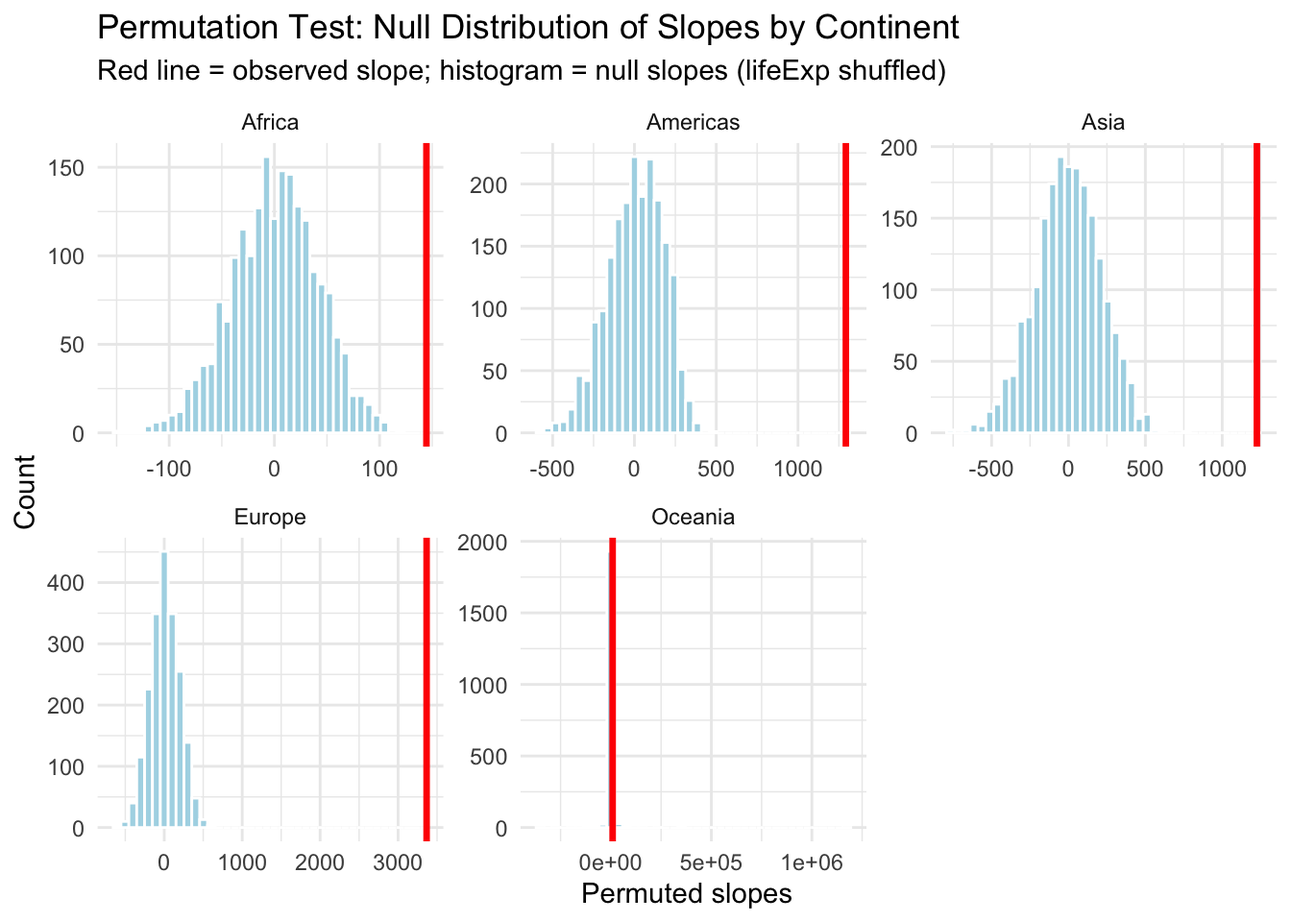
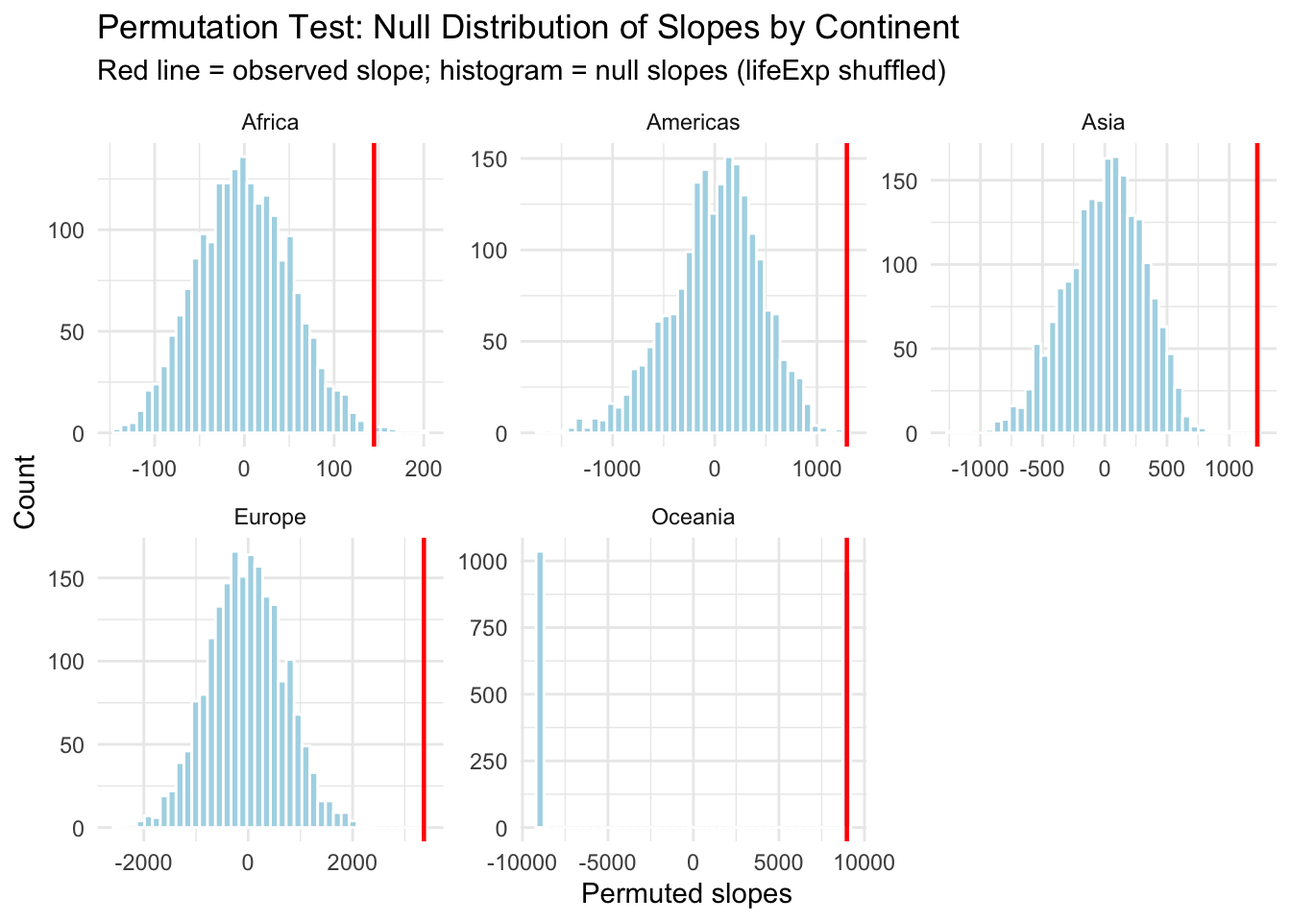
Final Proj 3

diff --git a/docs/simulation.html b/docs/simulation.html
@@ -6,7 +6,7 @@
 
 <meta name="viewport" content="width=device-width, initial-scale=1.0, user-scalable=yes">
 
-<meta name="description" content="This project investigates whether the positive correlation between GDP per capita and life expectancy holds true across different continents. Historically, countries with populations that enjoy higher life expectancy tend to maintain higher GDP per capita. However, this relationship may not be universal. Some nations achieve relatively high life expectancy despite having lower-than-average GDP per capita, while others have comparatively poor life expectancy despite higher average incomes.This project uses data from the Gapminder dataset. I perform a permutation test to evaluate whether the observed correlation between life expectancy and GDP per capita is stronger than what would be expected by chance within each continent.The question I hope to answer is: Does higher life expectancy always imply higher GDP per capita?The Null Hypothesis would be: Any relationship between life expectancy and GDP per capita is due to chance, that is, life expectancy does not predict income. - Knowing a countires life expectancy does not help in the prediction of its GDP per capitaThe Alternative Hypothesis would be: Countries with higher life expectancy tend to have systematically higher (or lower) GDP per capita. In other words, the relationship is real, not random. - Countries with deviations in life expetency, whether possitive or negative tend to have systematically differnt GDP levels. The slope is meaningfully different from zeroThis study will use the slope of this comparison as the test statistic. The slope in this case measures, direction of association. Meaning if the slope is positive that should entail higher life expectancy and higher GDP. The steeper the slope, the stronger the link. Under the null hypothesis, when life expectancy variables are shuffled randomly among countries, the slope should average around zero. If the observed slope is far from this null distribution, the relationship is unlikely due to chance.Refrence: The data used in this analysis comes from the Gapminder Foundation, which is a independent education non-profit that aggreigates large data sets drawing from the UN, World Bank and other large international institutions.Original Author: Rosling, Hans; Rosling, Ola; Rosling Rönnlund, Anna (2005–present) “Gapminder Data”. Stockholm: Gapminder Foundation.">
+<meta name="description" content="This project investigates whether the positive correlation between GDP per capita and life expectancy holds true across different continents. Historically, countries with populations that enjoy higher life expectancy tend to maintain higher GDP per capita. However, this relationship may not be universal. Some nations achieve relatively high life expectancy despite having lower-than-average GDP per capita, while others have comparatively poor life expectancy despite higher average incomes.This project uses data from the Gapminder dataset. I perform a permutation test to evaluate whether the observed correlation between life expectancy and GDP per capita is stronger than what would be expected by chance within each continent.The question I hope to answer is: Does higher life expectancy always imply higher GDP per capita?The Null Hypothesis would be: Any relationship between life expectancy and GDP per capita is due to chance, that is, life expectancy does not predict income. - Knowing a countires life expectancy does not help in the prediction of its GDP per capitaThe Alternative Hypothesis would be: Countries with higher life expectancy tend to have systematically higher (or lower) GDP per capita. In other words, the relationship is real, not random. - Countries with deviations in life expetency, whether possitive or negative tend to have systematically differnt GDP levels. The slope is meaningfully different from zeroThis study will use the slope of this comparison as the test statistic. The slope in this case measures the direction of association, meaning if the slope is positive, that should indicate higher life expectancy and higher GDP. The steeper the slope, the stronger the link. Under the null hypothesis, when life expectancy values are shuffled randomly among countries, the slope should average around zero. If the observed slope is far from this null distribution, the relationship is unlikely due to chance.Refrence: The data used in this analysis comes from the Gapminder Foundation, which is a independent education non-profit that aggreigates large data sets drawing from the UN, World Bank and other large international institutions.Original Author: Rosling, Hans; Rosling, Ola; Rosling Rönnlund, Anna (2005–present) “Gapminder Data”. Stockholm: Gapminder Foundation.">
 
 <title>Understanding the Relationship Between GDP Per-Capita and Life Expectancy – Thomas Price</title>
 <style>
@@ -180,7 +180,7 @@ pre > code.sourceCode > span > a:first-child::before { text-decoration: underlin
     <p>The question I hope to answer is: Does higher life expectancy always imply higher GDP per capita?</p>
     <p>The Null Hypothesis would be: Any relationship between life expectancy and GDP per capita is due to chance, that is, life expectancy does not predict income. - Knowing a countires life expectancy does not help in the prediction of its GDP per capita</p>
     <p>The Alternative Hypothesis would be: Countries with higher life expectancy tend to have systematically higher (or lower) GDP per capita. In other words, the relationship is real, not random. - Countries with deviations in life expetency, whether possitive or negative tend to have systematically differnt GDP levels. The slope is meaningfully different from zero</p>
-    <p>This study will use the slope of this comparison as the test statistic. The slope in this case measures, direction of association. Meaning if the slope is positive that should entail higher life expectancy and higher GDP. The steeper the slope, the stronger the link. Under the null hypothesis, when life expectancy variables are shuffled randomly among countries, the slope should average around zero. If the observed slope is far from this null distribution, the relationship is unlikely due to chance.</p>
+    <p>This study will use the slope of this comparison as the test statistic. The slope in this case measures the direction of association, meaning if the slope is positive, that should indicate higher life expectancy and higher GDP. The steeper the slope, the stronger the link. Under the null hypothesis, when life expectancy values are shuffled randomly among countries, the slope should average around zero. If the observed slope is far from this null distribution, the relationship is unlikely due to chance.</p>
     <p>Refrence: The data used in this analysis comes from the <a href="https://www.gapminder.org/data/">Gapminder Foundation</a>, which is a independent education non-profit that aggreigates large data sets drawing from the UN, World Bank and other large international institutions.</p>
     <p>Original Author: Rosling, Hans; Rosling, Ola; Rosling Rönnlund, Anna (2005–present) “Gapminder Data”. Stockholm: Gapminder Foundation.</p>
   </div>
@@ -235,17 +235,39 @@ pre > code.sourceCode > span > a:first-child::before { text-decoration: underlin
 </figure>
 </div>
 </div>
+<details class="code-fold">
+<summary>Code</summary>
+<div class="sourceCode cell-code" id="cb5"><pre class="sourceCode r code-with-copy"><code class="sourceCode r"><span id="cb5-1"><a href="#cb5-1" aria-hidden="true" tabindex="-1"></a><span class="fu">ggplot</span>(gap2007, <span class="fu">aes</span>(<span class="at">x =</span> lifeExp, <span class="at">y =</span> gdpPercap, <span class="at">color =</span> continent)) <span class="sc">+</span></span>
+<span id="cb5-2"><a href="#cb5-2" aria-hidden="true" tabindex="-1"></a>  <span class="fu">geom_point</span>(<span class="at">size =</span> <span class="dv">2</span>, <span class="at">alpha =</span> <span class="fl">0.8</span>) <span class="sc">+</span></span>
+<span id="cb5-3"><a href="#cb5-3" aria-hidden="true" tabindex="-1"></a>  <span class="fu">geom_smooth</span>(<span class="at">method =</span> <span class="st">"lm"</span>, <span class="at">se =</span> <span class="cn">FALSE</span>) <span class="sc">+</span> </span>
+<span id="cb5-4"><a href="#cb5-4" aria-hidden="true" tabindex="-1"></a>  <span class="fu">labs</span>(</span>
+<span id="cb5-5"><a href="#cb5-5" aria-hidden="true" tabindex="-1"></a>    <span class="at">title =</span> <span class="st">"Life Expectancy vs GDP per Capita (2007)"</span>,</span>
+<span id="cb5-6"><a href="#cb5-6" aria-hidden="true" tabindex="-1"></a>    <span class="at">subtitle =</span> <span class="st">"Each point represents a country"</span>,</span>
+<span id="cb5-7"><a href="#cb5-7" aria-hidden="true" tabindex="-1"></a>    <span class="at">x =</span> <span class="st">"Life Expectancy (years)"</span>,</span>
+<span id="cb5-8"><a href="#cb5-8" aria-hidden="true" tabindex="-1"></a>    <span class="at">y =</span> <span class="st">"GDP per Capita (US dollars)"</span></span>
+<span id="cb5-9"><a href="#cb5-9" aria-hidden="true" tabindex="-1"></a>  ) <span class="sc">+</span></span>
+<span id="cb5-10"><a href="#cb5-10" aria-hidden="true" tabindex="-1"></a>  <span class="fu">facet_wrap</span>(<span class="sc">~</span>continent) <span class="sc">+</span> </span>
+<span id="cb5-11"><a href="#cb5-11" aria-hidden="true" tabindex="-1"></a>  <span class="fu">theme_minimal</span>()</span></code><button title="Copy to Clipboard" class="code-copy-button"><i class="bi"></i></button></pre></div>
+</details>
+<div class="cell-output-display">
+<div>
+<figure class="figure">
+<p><img src="simulation_files/figure-html/unnamed-chunk-2-2.png" class="img-fluid figure-img" width="672"></p>
+</figure>
+</div>
+</div>
 </div>
 <p>The scatter plot shows the observed relationship between life expectancy and GDP per capita across countries in 2007. Their is a general upward trend where countries with longer life expectancy tend to have higher incomes. Additionally, their is noticeable variation within continents. Some countries achieve high life expectancy despite modest GDP per capita, and others show the opposite.This graph warrants testing whether the relationship is strong enough to be considered statistically meaningful.</p>
+<p>This faceted graph shows the relationship between life expectancy and GDP per capita in 2007, separated by continent. Each point represents a country, and the line within each panel indicates the general direction of the relationship. Overall, continents like Europe and Asia show a strong positive correlation, while Africa and Oceania display weaker associations between life expectancy and GDP per capita.</p>
 <div class="cell">
 <details class="code-fold">
 <summary>Code</summary>
-<div class="sourceCode cell-code" id="cb5"><pre class="sourceCode r code-with-copy"><code class="sourceCode r"><span id="cb5-1"><a href="#cb5-1" aria-hidden="true" tabindex="-1"></a><span class="co">#Identifying the LifeExp slope with a linear model</span></span>
-<span id="cb5-2"><a href="#cb5-2" aria-hidden="true" tabindex="-1"></a></span>
-<span id="cb5-3"><a href="#cb5-3" aria-hidden="true" tabindex="-1"></a>get_slope <span class="ot">&lt;-</span> <span class="cf">function</span>(df) {</span>
-<span id="cb5-4"><a href="#cb5-4" aria-hidden="true" tabindex="-1"></a>  fit <span class="ot">&lt;-</span> <span class="fu">lm</span>(gdpPercap <span class="sc">~</span> lifeExp, <span class="at">data =</span> df)</span>
-<span id="cb5-5"><a href="#cb5-5" aria-hidden="true" tabindex="-1"></a>  <span class="fu">coef</span>(fit)[[<span class="st">"lifeExp"</span>]]  </span>
-<span id="cb5-6"><a href="#cb5-6" aria-hidden="true" tabindex="-1"></a>}</span></code><button title="Copy to Clipboard" class="code-copy-button"><i class="bi"></i></button></pre></div>
+<div class="sourceCode cell-code" id="cb6"><pre class="sourceCode r code-with-copy"><code class="sourceCode r"><span id="cb6-1"><a href="#cb6-1" aria-hidden="true" tabindex="-1"></a><span class="co">#Identifying the LifeExp slope with a linear model</span></span>
+<span id="cb6-2"><a href="#cb6-2" aria-hidden="true" tabindex="-1"></a></span>
+<span id="cb6-3"><a href="#cb6-3" aria-hidden="true" tabindex="-1"></a>get_slope <span class="ot">&lt;-</span> <span class="cf">function</span>(df) {</span>
+<span id="cb6-4"><a href="#cb6-4" aria-hidden="true" tabindex="-1"></a>  fit <span class="ot">&lt;-</span> <span class="fu">lm</span>(gdpPercap <span class="sc">~</span> lifeExp, <span class="at">data =</span> df)</span>
+<span id="cb6-5"><a href="#cb6-5" aria-hidden="true" tabindex="-1"></a>  <span class="fu">coef</span>(fit)[[<span class="st">"lifeExp"</span>]]  </span>
+<span id="cb6-6"><a href="#cb6-6" aria-hidden="true" tabindex="-1"></a>}</span></code><button title="Copy to Clipboard" class="code-copy-button"><i class="bi"></i></button></pre></div>
 </details>
 </div>
 <p>The code above tests the slope of the simple regression. gdpPercap ~ lifeExp</p>
@@ -253,13 +275,13 @@ pre > code.sourceCode > span > a:first-child::before { text-decoration: underlin
 <div class="cell">
 <details class="code-fold">
 <summary>Code</summary>
-<div class="sourceCode cell-code" id="cb6"><pre class="sourceCode r code-with-copy"><code class="sourceCode r"><span id="cb6-1"><a href="#cb6-1" aria-hidden="true" tabindex="-1"></a>obs_slopes <span class="ot">&lt;-</span> gap2007 <span class="sc">|&gt;</span></span>
-<span id="cb6-2"><a href="#cb6-2" aria-hidden="true" tabindex="-1"></a>  <span class="fu">group_by</span>(continent) <span class="sc">|&gt;</span></span>
-<span id="cb6-3"><a href="#cb6-3" aria-hidden="true" tabindex="-1"></a>  <span class="fu">summarize</span>(</span>
-<span id="cb6-4"><a href="#cb6-4" aria-hidden="true" tabindex="-1"></a>    <span class="at">obs_slope =</span> <span class="fu">coef</span>(<span class="fu">lm</span>(gdpPercap <span class="sc">~</span> lifeExp))[<span class="dv">2</span>]</span>
-<span id="cb6-5"><a href="#cb6-5" aria-hidden="true" tabindex="-1"></a>  )</span>
-<span id="cb6-6"><a href="#cb6-6" aria-hidden="true" tabindex="-1"></a></span>
-<span id="cb6-7"><a href="#cb6-7" aria-hidden="true" tabindex="-1"></a>obs_slopes</span></code><button title="Copy to Clipboard" class="code-copy-button"><i class="bi"></i></button></pre></div>
+<div class="sourceCode cell-code" id="cb7"><pre class="sourceCode r code-with-copy"><code class="sourceCode r"><span id="cb7-1"><a href="#cb7-1" aria-hidden="true" tabindex="-1"></a>obs_slopes <span class="ot">&lt;-</span> gap2007 <span class="sc">|&gt;</span></span>
+<span id="cb7-2"><a href="#cb7-2" aria-hidden="true" tabindex="-1"></a>  <span class="fu">group_by</span>(continent) <span class="sc">|&gt;</span></span>
+<span id="cb7-3"><a href="#cb7-3" aria-hidden="true" tabindex="-1"></a>  <span class="fu">summarize</span>(</span>
+<span id="cb7-4"><a href="#cb7-4" aria-hidden="true" tabindex="-1"></a>    <span class="at">obs_slope =</span> <span class="fu">coef</span>(<span class="fu">lm</span>(gdpPercap <span class="sc">~</span> lifeExp))[<span class="dv">2</span>]</span>
+<span id="cb7-5"><a href="#cb7-5" aria-hidden="true" tabindex="-1"></a>  )</span>
+<span id="cb7-6"><a href="#cb7-6" aria-hidden="true" tabindex="-1"></a></span>
+<span id="cb7-7"><a href="#cb7-7" aria-hidden="true" tabindex="-1"></a>obs_slopes</span></code><button title="Copy to Clipboard" class="code-copy-button"><i class="bi"></i></button></pre></div>
 </details>
 <div class="cell-output cell-output-stdout">
 <pre><code># A tibble: 5 × 2
@@ -273,27 +295,27 @@ pre > code.sourceCode > span > a:first-child::before { text-decoration: underlin
 </div>
 <details class="code-fold">
 <summary>Code</summary>
-<div class="sourceCode cell-code" id="cb8"><pre class="sourceCode r code-with-copy"><code class="sourceCode r"><span id="cb8-1"><a href="#cb8-1" aria-hidden="true" tabindex="-1"></a>continents <span class="ot">&lt;-</span> <span class="fu">unique</span>(gap2007<span class="sc">$</span>continent)</span>
-<span id="cb8-2"><a href="#cb8-2" aria-hidden="true" tabindex="-1"></a></span>
-<span id="cb8-3"><a href="#cb8-3" aria-hidden="true" tabindex="-1"></a>obs_slopes_continent <span class="ot">&lt;-</span> <span class="fu">numeric</span>(<span class="fu">length</span>(continents))</span>
-<span id="cb8-4"><a href="#cb8-4" aria-hidden="true" tabindex="-1"></a></span>
-<span id="cb8-5"><a href="#cb8-5" aria-hidden="true" tabindex="-1"></a><span class="cf">for</span> (i <span class="cf">in</span> <span class="dv">1</span><span class="sc">:</span><span class="fu">length</span>(continents)) {</span>
-<span id="cb8-6"><a href="#cb8-6" aria-hidden="true" tabindex="-1"></a>  df_cont <span class="ot">&lt;-</span> <span class="fu">subset</span>(gap2007, continent <span class="sc">==</span> continents[i])</span>
-<span id="cb8-7"><a href="#cb8-7" aria-hidden="true" tabindex="-1"></a>  </span>
-<span id="cb8-8"><a href="#cb8-8" aria-hidden="true" tabindex="-1"></a>  obs_slopes_continent[i] <span class="ot">&lt;-</span> <span class="fu">get_slope</span>(df_cont)</span>
-<span id="cb8-9"><a href="#cb8-9" aria-hidden="true" tabindex="-1"></a>}</span>
-<span id="cb8-10"><a href="#cb8-10" aria-hidden="true" tabindex="-1"></a></span>
-<span id="cb8-11"><a href="#cb8-11" aria-hidden="true" tabindex="-1"></a><span class="fu">names</span>(obs_slopes_continent) <span class="ot">&lt;-</span> continents</span>
-<span id="cb8-12"><a href="#cb8-12" aria-hidden="true" tabindex="-1"></a></span>
-<span id="cb8-13"><a href="#cb8-13" aria-hidden="true" tabindex="-1"></a>obs_slope_overall <span class="ot">&lt;-</span> <span class="fu">get_slope</span>(gap2007)</span>
-<span id="cb8-14"><a href="#cb8-14" aria-hidden="true" tabindex="-1"></a>obs_slope_overall</span></code><button title="Copy to Clipboard" class="code-copy-button"><i class="bi"></i></button></pre></div>
+<div class="sourceCode cell-code" id="cb9"><pre class="sourceCode r code-with-copy"><code class="sourceCode r"><span id="cb9-1"><a href="#cb9-1" aria-hidden="true" tabindex="-1"></a>continents <span class="ot">&lt;-</span> <span class="fu">unique</span>(gap2007<span class="sc">$</span>continent)</span>
+<span id="cb9-2"><a href="#cb9-2" aria-hidden="true" tabindex="-1"></a></span>
+<span id="cb9-3"><a href="#cb9-3" aria-hidden="true" tabindex="-1"></a>obs_slopes_continent <span class="ot">&lt;-</span> <span class="fu">numeric</span>(<span class="fu">length</span>(continents))</span>
+<span id="cb9-4"><a href="#cb9-4" aria-hidden="true" tabindex="-1"></a></span>
+<span id="cb9-5"><a href="#cb9-5" aria-hidden="true" tabindex="-1"></a><span class="cf">for</span> (i <span class="cf">in</span> <span class="dv">1</span><span class="sc">:</span><span class="fu">length</span>(continents)) {</span>
+<span id="cb9-6"><a href="#cb9-6" aria-hidden="true" tabindex="-1"></a>  df_cont <span class="ot">&lt;-</span> <span class="fu">subset</span>(gap2007, continent <span class="sc">==</span> continents[i])</span>
+<span id="cb9-7"><a href="#cb9-7" aria-hidden="true" tabindex="-1"></a>  </span>
+<span id="cb9-8"><a href="#cb9-8" aria-hidden="true" tabindex="-1"></a>  obs_slopes_continent[i] <span class="ot">&lt;-</span> <span class="fu">get_slope</span>(df_cont)</span>
+<span id="cb9-9"><a href="#cb9-9" aria-hidden="true" tabindex="-1"></a>}</span>
+<span id="cb9-10"><a href="#cb9-10" aria-hidden="true" tabindex="-1"></a></span>
+<span id="cb9-11"><a href="#cb9-11" aria-hidden="true" tabindex="-1"></a><span class="fu">names</span>(obs_slopes_continent) <span class="ot">&lt;-</span> continents</span>
+<span id="cb9-12"><a href="#cb9-12" aria-hidden="true" tabindex="-1"></a></span>
+<span id="cb9-13"><a href="#cb9-13" aria-hidden="true" tabindex="-1"></a>obs_slope_overall <span class="ot">&lt;-</span> <span class="fu">get_slope</span>(gap2007)</span>
+<span id="cb9-14"><a href="#cb9-14" aria-hidden="true" tabindex="-1"></a>obs_slope_overall</span></code><button title="Copy to Clipboard" class="code-copy-button"><i class="bi"></i></button></pre></div>
 </details>
 <div class="cell-output cell-output-stdout">
 <pre><code>[1] 722.8975</code></pre>
 </div>
 <details class="code-fold">
 <summary>Code</summary>
-<div class="sourceCode cell-code" id="cb10"><pre class="sourceCode r code-with-copy"><code class="sourceCode r"><span id="cb10-1"><a href="#cb10-1" aria-hidden="true" tabindex="-1"></a>obs_slopes_continent</span></code><button title="Copy to Clipboard" class="code-copy-button"><i class="bi"></i></button></pre></div>
+<div class="sourceCode cell-code" id="cb11"><pre class="sourceCode r code-with-copy"><code class="sourceCode r"><span id="cb11-1"><a href="#cb11-1" aria-hidden="true" tabindex="-1"></a>obs_slopes_continent</span></code><button title="Copy to Clipboard" class="code-copy-button"><i class="bi"></i></button></pre></div>
 </details>
 <div class="cell-output cell-output-stdout">
 <pre><code>     Asia    Europe    Africa  Americas   Oceania 
@@ -305,95 +327,96 @@ pre > code.sourceCode > span > a:first-child::before { text-decoration: underlin
 <div class="cell">
 <details class="code-fold">
 <summary>Code</summary>
-<div class="sourceCode cell-code" id="cb12"><pre class="sourceCode r code-with-copy"><code class="sourceCode r"><span id="cb12-1"><a href="#cb12-1" aria-hidden="true" tabindex="-1"></a><span class="co"># Permutation Test : Null Distribution</span></span>
-<span id="cb12-2"><a href="#cb12-2" aria-hidden="true" tabindex="-1"></a>perm_null <span class="ot">&lt;-</span> <span class="cf">function</span>(rep, data){</span>
-<span id="cb12-3"><a href="#cb12-3" aria-hidden="true" tabindex="-1"></a>  data <span class="sc">|&gt;</span></span>
-<span id="cb12-4"><a href="#cb12-4" aria-hidden="true" tabindex="-1"></a>    <span class="fu">select</span>(continent, lifeExp, gdpPercap) <span class="sc">|&gt;</span></span>
-<span id="cb12-5"><a href="#cb12-5" aria-hidden="true" tabindex="-1"></a>    <span class="fu">mutate</span>(<span class="at">lifeExp_perm =</span> <span class="fu">sample</span>(lifeExp, <span class="at">replace =</span> <span class="cn">FALSE</span>)) <span class="sc">|&gt;</span></span>
-<span id="cb12-6"><a href="#cb12-6" aria-hidden="true" tabindex="-1"></a>    <span class="fu">group_by</span>(continent) <span class="sc">|&gt;</span></span>
-<span id="cb12-7"><a href="#cb12-7" aria-hidden="true" tabindex="-1"></a>    <span class="fu">summarize</span>(</span>
-<span id="cb12-8"><a href="#cb12-8" aria-hidden="true" tabindex="-1"></a>      <span class="at">obs_slope  =</span> <span class="fu">coef</span>(<span class="fu">lm</span>(gdpPercap <span class="sc">~</span> lifeExp      ))[<span class="dv">2</span>],</span>
-<span id="cb12-9"><a href="#cb12-9" aria-hidden="true" tabindex="-1"></a>      <span class="at">perm_slope =</span> <span class="fu">coef</span>(<span class="fu">lm</span>(gdpPercap <span class="sc">~</span> lifeExp_perm ))[<span class="dv">2</span>],</span>
-<span id="cb12-10"><a href="#cb12-10" aria-hidden="true" tabindex="-1"></a>      <span class="at">.groups =</span> <span class="st">"drop"</span></span>
-<span id="cb12-11"><a href="#cb12-11" aria-hidden="true" tabindex="-1"></a>    ) <span class="sc">|&gt;</span></span>
-<span id="cb12-12"><a href="#cb12-12" aria-hidden="true" tabindex="-1"></a>    <span class="fu">mutate</span>(<span class="at">rep =</span> rep)</span>
-<span id="cb12-13"><a href="#cb12-13" aria-hidden="true" tabindex="-1"></a>}</span>
-<span id="cb12-14"><a href="#cb12-14" aria-hidden="true" tabindex="-1"></a></span>
-<span id="cb12-15"><a href="#cb12-15" aria-hidden="true" tabindex="-1"></a><span class="fu">set.seed</span>(<span class="dv">2025</span>)</span>
-<span id="cb12-16"><a href="#cb12-16" aria-hidden="true" tabindex="-1"></a>B <span class="ot">&lt;-</span> <span class="dv">2000</span></span>
-<span id="cb12-17"><a href="#cb12-17" aria-hidden="true" tabindex="-1"></a></span>
-<span id="cb12-18"><a href="#cb12-18" aria-hidden="true" tabindex="-1"></a></span>
-<span id="cb12-19"><a href="#cb12-19" aria-hidden="true" tabindex="-1"></a>null_by_cont_tbl <span class="ot">&lt;-</span> <span class="fu">map</span>(<span class="dv">1</span><span class="sc">:</span>B, perm_null, <span class="at">data =</span> gap2007) <span class="sc">|&gt;</span></span>
-<span id="cb12-20"><a href="#cb12-20" aria-hidden="true" tabindex="-1"></a>  <span class="fu">list_rbind</span>()</span>
-<span id="cb12-21"><a href="#cb12-21" aria-hidden="true" tabindex="-1"></a></span>
-<span id="cb12-22"><a href="#cb12-22" aria-hidden="true" tabindex="-1"></a><span class="fu">head</span>(null_by_cont_tbl)</span></code><button title="Copy to Clipboard" class="code-copy-button"><i class="bi"></i></button></pre></div>
+<div class="sourceCode cell-code" id="cb13"><pre class="sourceCode r code-with-copy"><code class="sourceCode r"><span id="cb13-1"><a href="#cb13-1" aria-hidden="true" tabindex="-1"></a><span class="co"># Permutation Test : Null Distribution</span></span>
+<span id="cb13-2"><a href="#cb13-2" aria-hidden="true" tabindex="-1"></a>perm_null <span class="ot">&lt;-</span> <span class="cf">function</span>(rep, data){</span>
+<span id="cb13-3"><a href="#cb13-3" aria-hidden="true" tabindex="-1"></a>  data <span class="sc">|&gt;</span></span>
+<span id="cb13-4"><a href="#cb13-4" aria-hidden="true" tabindex="-1"></a>    <span class="fu">group_by</span>(continent) <span class="sc">|&gt;</span></span>
+<span id="cb13-5"><a href="#cb13-5" aria-hidden="true" tabindex="-1"></a>    <span class="fu">select</span>(continent, lifeExp, gdpPercap) <span class="sc">|&gt;</span></span>
+<span id="cb13-6"><a href="#cb13-6" aria-hidden="true" tabindex="-1"></a>    <span class="fu">mutate</span>(<span class="at">lifeExp_perm =</span> <span class="fu">sample</span>(lifeExp, <span class="at">replace =</span> <span class="cn">FALSE</span>)) <span class="sc">|&gt;</span></span>
+<span id="cb13-7"><a href="#cb13-7" aria-hidden="true" tabindex="-1"></a>    <span class="fu">summarize</span>(</span>
+<span id="cb13-8"><a href="#cb13-8" aria-hidden="true" tabindex="-1"></a>      <span class="at">obs_slope  =</span> <span class="fu">coef</span>(<span class="fu">lm</span>(gdpPercap <span class="sc">~</span> lifeExp      ))[<span class="dv">2</span>],</span>
+<span id="cb13-9"><a href="#cb13-9" aria-hidden="true" tabindex="-1"></a>      <span class="at">perm_slope =</span> <span class="fu">coef</span>(<span class="fu">lm</span>(gdpPercap <span class="sc">~</span> lifeExp_perm ))[<span class="dv">2</span>],</span>
+<span id="cb13-10"><a href="#cb13-10" aria-hidden="true" tabindex="-1"></a>      <span class="at">.groups =</span> <span class="st">"drop"</span></span>
+<span id="cb13-11"><a href="#cb13-11" aria-hidden="true" tabindex="-1"></a>    ) <span class="sc">|&gt;</span></span>
+<span id="cb13-12"><a href="#cb13-12" aria-hidden="true" tabindex="-1"></a>    <span class="fu">mutate</span>(<span class="at">rep =</span> rep)</span>
+<span id="cb13-13"><a href="#cb13-13" aria-hidden="true" tabindex="-1"></a>}</span>
+<span id="cb13-14"><a href="#cb13-14" aria-hidden="true" tabindex="-1"></a></span>
+<span id="cb13-15"><a href="#cb13-15" aria-hidden="true" tabindex="-1"></a><span class="fu">set.seed</span>(<span class="dv">2025</span>)</span>
+<span id="cb13-16"><a href="#cb13-16" aria-hidden="true" tabindex="-1"></a>B <span class="ot">&lt;-</span> <span class="dv">2000</span></span>
+<span id="cb13-17"><a href="#cb13-17" aria-hidden="true" tabindex="-1"></a></span>
+<span id="cb13-18"><a href="#cb13-18" aria-hidden="true" tabindex="-1"></a></span>
+<span id="cb13-19"><a href="#cb13-19" aria-hidden="true" tabindex="-1"></a>null_by_cont_tbl <span class="ot">&lt;-</span> <span class="fu">map</span>(<span class="dv">1</span><span class="sc">:</span>B, perm_null, <span class="at">data =</span> gap2007) <span class="sc">|&gt;</span></span>
+<span id="cb13-20"><a href="#cb13-20" aria-hidden="true" tabindex="-1"></a>  <span class="fu">list_rbind</span>()</span>
+<span id="cb13-21"><a href="#cb13-21" aria-hidden="true" tabindex="-1"></a></span>
+<span id="cb13-22"><a href="#cb13-22" aria-hidden="true" tabindex="-1"></a><span class="fu">head</span>(null_by_cont_tbl)</span></code><button title="Copy to Clipboard" class="code-copy-button"><i class="bi"></i></button></pre></div>
 </details>
 <div class="cell-output cell-output-stdout">
 <pre><code># A tibble: 6 × 4
   continent obs_slope perm_slope   rep
   &lt;fct&gt;         &lt;dbl&gt;      &lt;dbl&gt; &lt;int&gt;
-1 Africa         145.      11.0      1
-2 Americas      1293.     257.       1
-3 Asia          1225.    -137.       1
-4 Europe        3366.     250.       1
-5 Oceania       8972.   -1476.       1
-6 Africa         145.       2.88     2</code></pre>
+1 Africa         145.      -18.0     1
+2 Americas      1293.     -205.      1
+3 Asia          1225.     -155.      1
+4 Europe        3366.     -514.      1
+5 Oceania       8972.    -8972.      1
+6 Africa         145.       22.6     2</code></pre>
 </div>
 </div>
 <p>To simulate the null hypothesis that life expectancy and GDP per capita are unrelated, I created a permutation function. The function (perm_null) randomly shuffles life expectancy values within the dataset. For each randomization, a linear model is fit for each continent and the new slope is recorded. Repeating this 2,000 times using the map() function creates a null distribution of slopes that would occur purely by chance.</p>
 <div class="cell">
 <details class="code-fold">
 <summary>Code</summary>
-<div class="sourceCode cell-code" id="cb14"><pre class="sourceCode r code-with-copy"><code class="sourceCode r"><span id="cb14-1"><a href="#cb14-1" aria-hidden="true" tabindex="-1"></a><span class="co">#Calculating P-Values per continent </span></span>
-<span id="cb14-2"><a href="#cb14-2" aria-hidden="true" tabindex="-1"></a></span>
-<span id="cb14-3"><a href="#cb14-3" aria-hidden="true" tabindex="-1"></a>pvals_tbl <span class="ot">&lt;-</span> null_by_cont_tbl <span class="sc">|&gt;</span></span>
-<span id="cb14-4"><a href="#cb14-4" aria-hidden="true" tabindex="-1"></a>  <span class="fu">group_by</span>(continent) <span class="sc">|&gt;</span></span>
-<span id="cb14-5"><a href="#cb14-5" aria-hidden="true" tabindex="-1"></a>  <span class="fu">summarize</span>(</span>
-<span id="cb14-6"><a href="#cb14-6" aria-hidden="true" tabindex="-1"></a>    <span class="at">obs_slope =</span> <span class="fu">first</span>(obs_slope), </span>
-<span id="cb14-7"><a href="#cb14-7" aria-hidden="true" tabindex="-1"></a>    <span class="at">p_value =</span> <span class="fu">mean</span>(<span class="fu">abs</span>(perm_slope) <span class="sc">&gt;=</span> <span class="fu">abs</span>(obs_slope))</span>
-<span id="cb14-8"><a href="#cb14-8" aria-hidden="true" tabindex="-1"></a>  )</span>
-<span id="cb14-9"><a href="#cb14-9" aria-hidden="true" tabindex="-1"></a></span>
-<span id="cb14-10"><a href="#cb14-10" aria-hidden="true" tabindex="-1"></a>pvals_tbl</span></code><button title="Copy to Clipboard" class="code-copy-button"><i class="bi"></i></button></pre></div>
+<div class="sourceCode cell-code" id="cb15"><pre class="sourceCode r code-with-copy"><code class="sourceCode r"><span id="cb15-1"><a href="#cb15-1" aria-hidden="true" tabindex="-1"></a><span class="co">#Calculating P-Values per continent </span></span>
+<span id="cb15-2"><a href="#cb15-2" aria-hidden="true" tabindex="-1"></a></span>
+<span id="cb15-3"><a href="#cb15-3" aria-hidden="true" tabindex="-1"></a>pvals_tbl <span class="ot">&lt;-</span> null_by_cont_tbl <span class="sc">|&gt;</span></span>
+<span id="cb15-4"><a href="#cb15-4" aria-hidden="true" tabindex="-1"></a>  <span class="fu">group_by</span>(continent) <span class="sc">|&gt;</span></span>
+<span id="cb15-5"><a href="#cb15-5" aria-hidden="true" tabindex="-1"></a>  <span class="fu">summarize</span>(</span>
+<span id="cb15-6"><a href="#cb15-6" aria-hidden="true" tabindex="-1"></a>    <span class="co">#obs_slope = first(obs_slope), </span></span>
+<span id="cb15-7"><a href="#cb15-7" aria-hidden="true" tabindex="-1"></a>    <span class="co">#p_value = mean(abs(perm_slope) &gt;= abs(obs_slope))</span></span>
+<span id="cb15-8"><a href="#cb15-8" aria-hidden="true" tabindex="-1"></a>    <span class="at">p_value =</span> <span class="fu">mean</span>(perm_slope <span class="sc">&gt;=</span> obs_slope)</span>
+<span id="cb15-9"><a href="#cb15-9" aria-hidden="true" tabindex="-1"></a>  )</span>
+<span id="cb15-10"><a href="#cb15-10" aria-hidden="true" tabindex="-1"></a></span>
+<span id="cb15-11"><a href="#cb15-11" aria-hidden="true" tabindex="-1"></a>pvals_tbl</span></code><button title="Copy to Clipboard" class="code-copy-button"><i class="bi"></i></button></pre></div>
 </details>
 <div class="cell-output cell-output-stdout">
-<pre><code># A tibble: 5 × 3
-  continent obs_slope p_value
-  &lt;fct&gt;         &lt;dbl&gt;   &lt;dbl&gt;
-1 Africa         145.  0.0005
-2 Americas      1293.  0     
-3 Asia          1225.  0     
-4 Europe        3366.  0     
-5 Oceania       8972.  0.0685</code></pre>
+<pre><code># A tibble: 5 × 2
+  continent p_value
+  &lt;fct&gt;       &lt;dbl&gt;
+1 Africa      0.004
+2 Americas    0    
+3 Asia        0    
+4 Europe      0    
+5 Oceania     0.482</code></pre>
 </div>
 </div>
 <p>The permutation results show that the relationship between life expectancy and GDP per capita is statistically significant in Africa, Asia, the Americas, and Europe. The effect in Africa is far smaller which may indicate that economic development does not translate into health outcomes as consistently there as it does in other parts of the world. Oceania shows a non-significant results because only two countries are present, making any estimate unstable. Overall, the analysis suggests that while income and health are positively related worldwide, the strength of this relationship varies by region.</p>
 <div class="cell">
 <details class="code-fold">
 <summary>Code</summary>
-<div class="sourceCode cell-code" id="cb16"><pre class="sourceCode r code-with-copy"><code class="sourceCode r"><span id="cb16-1"><a href="#cb16-1" aria-hidden="true" tabindex="-1"></a><span class="co">#Plotting -- Faceted null distribution plots </span></span>
-<span id="cb16-2"><a href="#cb16-2" aria-hidden="true" tabindex="-1"></a></span>
-<span id="cb16-3"><a href="#cb16-3" aria-hidden="true" tabindex="-1"></a>obs_slopes <span class="ot">&lt;-</span> gap2007 <span class="sc">|&gt;</span></span>
-<span id="cb16-4"><a href="#cb16-4" aria-hidden="true" tabindex="-1"></a>  <span class="fu">group_by</span>(continent) <span class="sc">|&gt;</span></span>
-<span id="cb16-5"><a href="#cb16-5" aria-hidden="true" tabindex="-1"></a>  <span class="fu">summarize</span>(<span class="at">obs_slope =</span> <span class="fu">coef</span>(<span class="fu">lm</span>(gdpPercap <span class="sc">~</span> lifeExp))[<span class="dv">2</span>], <span class="at">.groups =</span> <span class="st">"drop"</span>)</span>
-<span id="cb16-6"><a href="#cb16-6" aria-hidden="true" tabindex="-1"></a></span>
-<span id="cb16-7"><a href="#cb16-7" aria-hidden="true" tabindex="-1"></a><span class="fu">ggplot</span>() <span class="sc">+</span></span>
-<span id="cb16-8"><a href="#cb16-8" aria-hidden="true" tabindex="-1"></a>  <span class="fu">geom_histogram</span>(</span>
-<span id="cb16-9"><a href="#cb16-9" aria-hidden="true" tabindex="-1"></a>    <span class="at">data =</span> null_by_cont_tbl,</span>
-<span id="cb16-10"><a href="#cb16-10" aria-hidden="true" tabindex="-1"></a>    <span class="fu">aes</span>(<span class="at">x =</span> perm_slope),</span>
-<span id="cb16-11"><a href="#cb16-11" aria-hidden="true" tabindex="-1"></a>    <span class="at">bins =</span> <span class="dv">40</span>, <span class="at">fill =</span> <span class="st">"lightblue"</span>, <span class="at">color =</span> <span class="st">"white"</span></span>
-<span id="cb16-12"><a href="#cb16-12" aria-hidden="true" tabindex="-1"></a>  ) <span class="sc">+</span></span>
-<span id="cb16-13"><a href="#cb16-13" aria-hidden="true" tabindex="-1"></a>  <span class="fu">geom_vline</span>(</span>
-<span id="cb16-14"><a href="#cb16-14" aria-hidden="true" tabindex="-1"></a>    <span class="at">data =</span> obs_slopes,</span>
-<span id="cb16-15"><a href="#cb16-15" aria-hidden="true" tabindex="-1"></a>    <span class="fu">aes</span>(<span class="at">xintercept =</span> obs_slope),</span>
-<span id="cb16-16"><a href="#cb16-16" aria-hidden="true" tabindex="-1"></a>    <span class="at">color =</span> <span class="st">"red"</span>, <span class="at">linewidth =</span> <span class="fl">1.2</span></span>
-<span id="cb16-17"><a href="#cb16-17" aria-hidden="true" tabindex="-1"></a>  ) <span class="sc">+</span></span>
-<span id="cb16-18"><a href="#cb16-18" aria-hidden="true" tabindex="-1"></a>  <span class="fu">facet_wrap</span>(<span class="sc">~</span> continent, <span class="at">scales =</span> <span class="st">"free"</span>) <span class="sc">+</span></span>
-<span id="cb16-19"><a href="#cb16-19" aria-hidden="true" tabindex="-1"></a>  <span class="fu">labs</span>(</span>
-<span id="cb16-20"><a href="#cb16-20" aria-hidden="true" tabindex="-1"></a>    <span class="at">title =</span> <span class="st">"Permutation Test: Null Distribution of Slopes by Continent"</span>,</span>
-<span id="cb16-21"><a href="#cb16-21" aria-hidden="true" tabindex="-1"></a>    <span class="at">subtitle =</span> <span class="st">"Red line = observed slope; histogram = null slopes (lifeExp shuffled)"</span>,</span>
-<span id="cb16-22"><a href="#cb16-22" aria-hidden="true" tabindex="-1"></a>    <span class="at">x =</span> <span class="st">"Permuted slopes"</span>, <span class="at">y =</span> <span class="st">"Count"</span></span>
-<span id="cb16-23"><a href="#cb16-23" aria-hidden="true" tabindex="-1"></a>  ) <span class="sc">+</span></span>
-<span id="cb16-24"><a href="#cb16-24" aria-hidden="true" tabindex="-1"></a>  <span class="fu">theme_minimal</span>()</span></code><button title="Copy to Clipboard" class="code-copy-button"><i class="bi"></i></button></pre></div>
+<div class="sourceCode cell-code" id="cb17"><pre class="sourceCode r code-with-copy"><code class="sourceCode r"><span id="cb17-1"><a href="#cb17-1" aria-hidden="true" tabindex="-1"></a><span class="co">#Plotting -- Faceted null distribution plots </span></span>
+<span id="cb17-2"><a href="#cb17-2" aria-hidden="true" tabindex="-1"></a></span>
+<span id="cb17-3"><a href="#cb17-3" aria-hidden="true" tabindex="-1"></a>obs_slopes <span class="ot">&lt;-</span> gap2007 <span class="sc">|&gt;</span></span>
+<span id="cb17-4"><a href="#cb17-4" aria-hidden="true" tabindex="-1"></a>  <span class="fu">group_by</span>(continent) <span class="sc">|&gt;</span></span>
+<span id="cb17-5"><a href="#cb17-5" aria-hidden="true" tabindex="-1"></a>  <span class="fu">summarize</span>(<span class="at">obs_slope =</span> <span class="fu">coef</span>(<span class="fu">lm</span>(gdpPercap <span class="sc">~</span> lifeExp))[<span class="dv">2</span>], <span class="at">.groups =</span> <span class="st">"drop"</span>)</span>
+<span id="cb17-6"><a href="#cb17-6" aria-hidden="true" tabindex="-1"></a></span>
+<span id="cb17-7"><a href="#cb17-7" aria-hidden="true" tabindex="-1"></a><span class="fu">ggplot</span>() <span class="sc">+</span></span>
+<span id="cb17-8"><a href="#cb17-8" aria-hidden="true" tabindex="-1"></a>  <span class="fu">geom_histogram</span>(</span>
+<span id="cb17-9"><a href="#cb17-9" aria-hidden="true" tabindex="-1"></a>    <span class="at">data =</span> null_by_cont_tbl,</span>
+<span id="cb17-10"><a href="#cb17-10" aria-hidden="true" tabindex="-1"></a>    <span class="fu">aes</span>(<span class="at">x =</span> perm_slope),</span>
+<span id="cb17-11"><a href="#cb17-11" aria-hidden="true" tabindex="-1"></a>    <span class="at">bins =</span> <span class="dv">40</span>, <span class="at">fill =</span> <span class="st">"lightblue"</span>, <span class="at">color =</span> <span class="st">"white"</span></span>
+<span id="cb17-12"><a href="#cb17-12" aria-hidden="true" tabindex="-1"></a>  ) <span class="sc">+</span>  </span>
+<span id="cb17-13"><a href="#cb17-13" aria-hidden="true" tabindex="-1"></a>  <span class="fu">geom_vline</span>(</span>
+<span id="cb17-14"><a href="#cb17-14" aria-hidden="true" tabindex="-1"></a>    <span class="at">data =</span> obs_slopes,</span>
+<span id="cb17-15"><a href="#cb17-15" aria-hidden="true" tabindex="-1"></a>    <span class="fu">aes</span>(<span class="at">xintercept =</span> obs_slope),</span>
+<span id="cb17-16"><a href="#cb17-16" aria-hidden="true" tabindex="-1"></a>    <span class="at">color =</span> <span class="st">"red"</span>, <span class="at">linewidth =</span> .<span class="dv">8</span></span>
+<span id="cb17-17"><a href="#cb17-17" aria-hidden="true" tabindex="-1"></a>  ) <span class="sc">+</span></span>
+<span id="cb17-18"><a href="#cb17-18" aria-hidden="true" tabindex="-1"></a>  <span class="fu">facet_wrap</span>(<span class="sc">~</span> continent, <span class="at">scales =</span> <span class="st">"free"</span>) <span class="sc">+</span></span>
+<span id="cb17-19"><a href="#cb17-19" aria-hidden="true" tabindex="-1"></a>  <span class="fu">labs</span>(</span>
+<span id="cb17-20"><a href="#cb17-20" aria-hidden="true" tabindex="-1"></a>    <span class="at">title =</span> <span class="st">"Permutation Test: Null Distribution of Slopes by Continent"</span>,</span>
+<span id="cb17-21"><a href="#cb17-21" aria-hidden="true" tabindex="-1"></a>    <span class="at">subtitle =</span> <span class="st">"Red line = observed slope; histogram = null slopes (lifeExp shuffled)"</span>,</span>
+<span id="cb17-22"><a href="#cb17-22" aria-hidden="true" tabindex="-1"></a>    <span class="at">x =</span> <span class="st">"Permuted slopes"</span>, <span class="at">y =</span> <span class="st">"Count"</span></span>
+<span id="cb17-23"><a href="#cb17-23" aria-hidden="true" tabindex="-1"></a>  ) <span class="sc">+</span></span>
+<span id="cb17-24"><a href="#cb17-24" aria-hidden="true" tabindex="-1"></a>  <span class="fu">theme_minimal</span>()</span></code><button title="Copy to Clipboard" class="code-copy-button"><i class="bi"></i></button></pre></div>
 </details>
 <div class="cell-output-display">
 <div>
